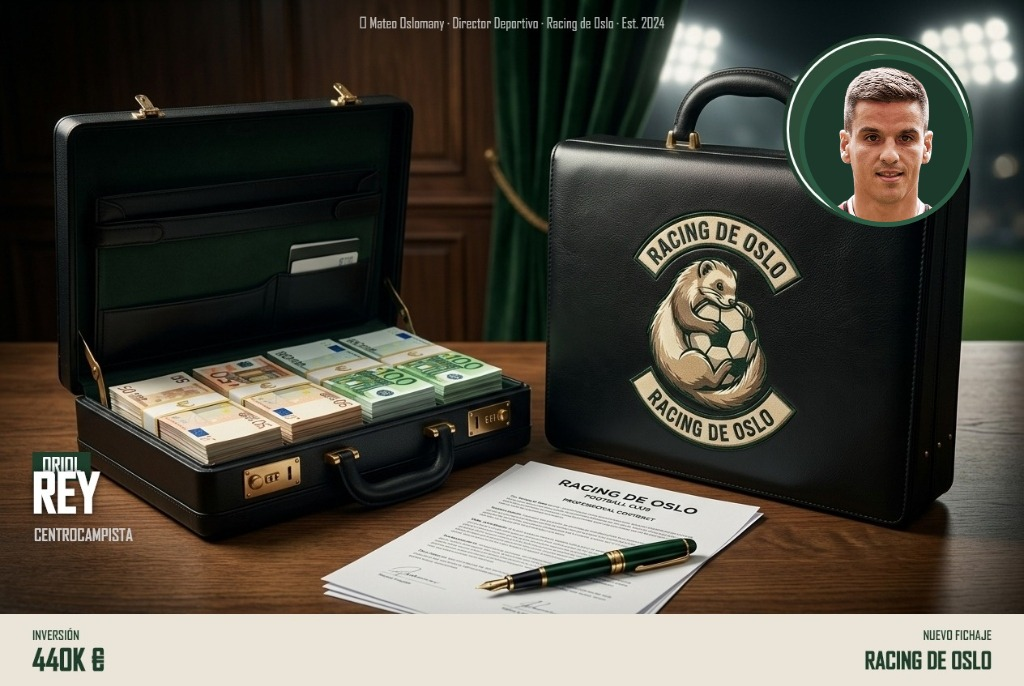
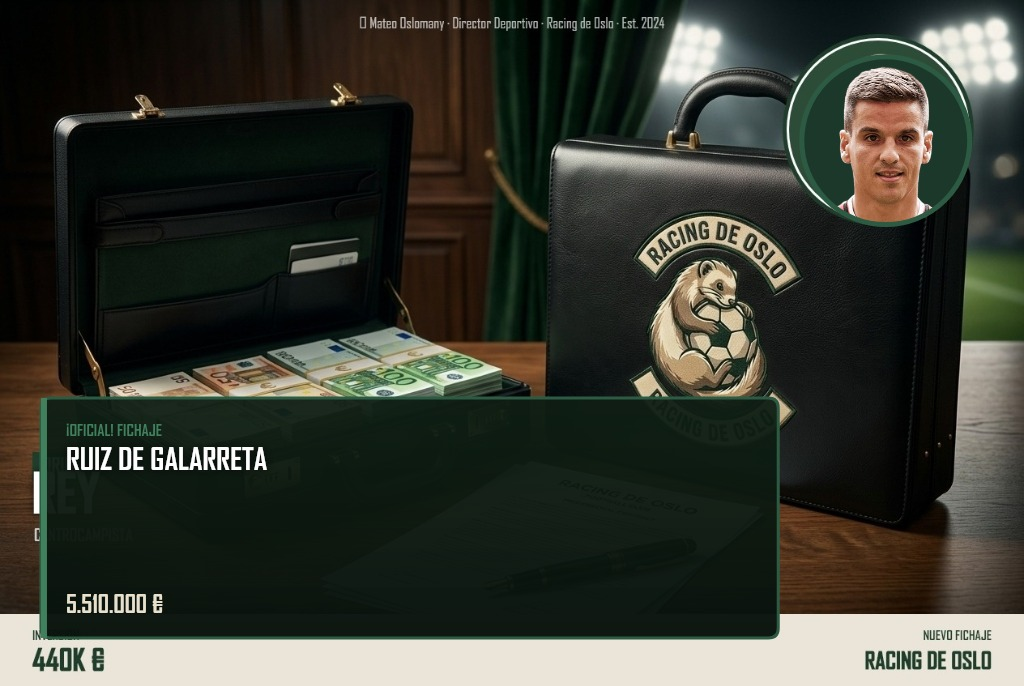
fix(imageGen): Add dynamic text overlay for player name and price on generated graphics

Changed region(s): [[0.0312, 0.551, 0.7812, 0.949]]

diff --git a/src/imageGen.js b/src/imageGen.js
@@ -107,6 +107,90 @@ export async function generateTemplateGraphic(type, playerName, subText = '', pl
       }
     }
 
+    // 3. Superponer Banner de Texto Dinámico (Nombre del jugador + Precio/Detalles)
+    if (playerName) {
+      ctx.save();
+
+      // Dimensiones y posición del parche de texto (zona inferior izquierda)
+      const patchX = width * 0.04;
+      const patchY = height * 0.58;
+      const patchW = width * 0.72;
+      const patchH = height * 0.35;
+      const cornerRadius = 10;
+
+      // Dibujar caja de fondo oscuro semitransparente con diseño profesional
+      ctx.beginPath();
+      ctx.moveTo(patchX + cornerRadius, patchY);
+      ctx.lineTo(patchX + patchW - cornerRadius, patchY);
+      ctx.quadraticCurveTo(patchX + patchW, patchY, patchX + patchW, patchY + cornerRadius);
+      ctx.lineTo(patchX + patchW, patchY + patchH - cornerRadius);
+      ctx.quadraticCurveTo(patchX + patchW, patchY + patchH, patchX + patchW - cornerRadius, patchY + patchH);
+      ctx.lineTo(patchX + cornerRadius, patchY + patchH);
+      ctx.quadraticCurveTo(patchX, patchY + patchH, patchX, patchY + patchH - cornerRadius);
+      ctx.lineTo(patchX, patchY + cornerRadius);
+      ctx.quadraticCurveTo(patchX, patchY, patchX + cornerRadius, patchY);
+      ctx.closePath();
+
+      // Relleno degradado elegante verde noche
+      const patchGrad = ctx.createLinearGradient(patchX, patchY, patchX, patchY + patchH);
+      patchGrad.addColorStop(0, 'rgba(15, 30, 20, 0.95)');
+      patchGrad.addColorStop(1, 'rgba(8, 18, 12, 0.98)');
+      ctx.fillStyle = patchGrad;
+      ctx.fill();
+
+      // Borde fino verde bosque
+      ctx.lineWidth = 3;
+      ctx.strokeStyle = '#2d5a42';
+      ctx.stroke();
+
+      // Borde de acento izquierdo (Línea de color según tipo)
+      const typeColors = {
+        signing: '#40805c',
+        sale: '#c85a5a',
+        medical: '#d4a359',
+        rumors: '#5a8cc8'
+      };
+      const accentColor = typeColors[type] || '#40805c';
+      ctx.fillStyle = accentColor;
+      ctx.fillRect(patchX, patchY, 6, patchH);
+
+      // A) Badge de Categoría / Tipo
+      const typeLabels = {
+        signing: '¡OFICIAL! FICHAJE',
+        sale: '¡OFICIAL! TRASPASO',
+        medical: 'PARTE MÉDICO OFICIAL',
+        rumors: 'RUMORES DE MERCADO'
+      };
+      const badgeText = typeLabels[type] || type.toUpperCase();
+      ctx.font = 'bold 16px sans-serif';
+      ctx.fillStyle = accentColor;
+      ctx.textAlign = 'left';
+      ctx.fillText(badgeText, patchX + 25, patchY + 38);
+
+      // B) Nombre del Jugador (Ajuste dinámico de fuente según longitud)
+      const nameUpper = playerName.toUpperCase();
+      let fontSize = 38;
+      if (nameUpper.length > 20) fontSize = 26;
+      else if (nameUpper.length > 15) fontSize = 30;
+      else if (nameUpper.length > 11) fontSize = 34;
+
+      ctx.font = `bold ${fontSize}px sans-serif`;
+      ctx.fillStyle = '#ffffff';
+      ctx.shadowColor = 'rgba(0, 0, 0, 0.8)';
+      ctx.shadowBlur = 10;
+      ctx.fillText(nameUpper, patchX + 25, patchY + 38 + fontSize + 4);
+      ctx.shadowBlur = 0;
+
+      // C) SubTexto / Precio / Detalles
+      if (subText) {
+        ctx.font = 'bold 24px sans-serif';
+        ctx.fillStyle = '#e8e0cc';
+        ctx.fillText(subText.toString(), patchX + 25, patchY + patchH - 25);
+      }
+
+      ctx.restore();
+    }
+
     // Guardar archivo compilado
     const buffer = canvas.toBuffer('image/jpeg', { quality: 0.95 });
     fs.writeFileSync(outPathWeb, buffer);
